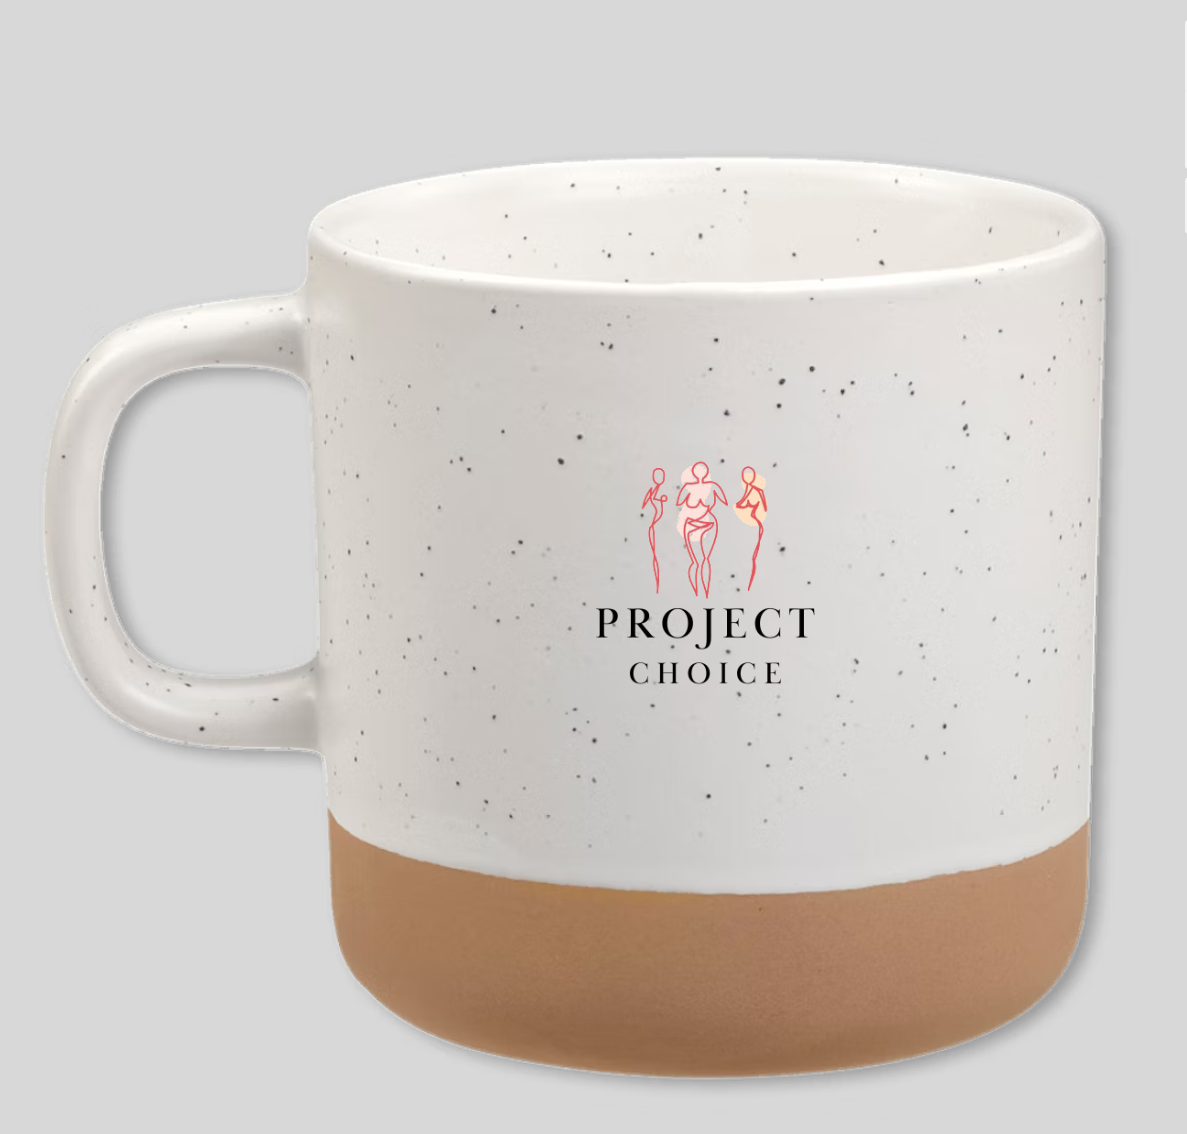
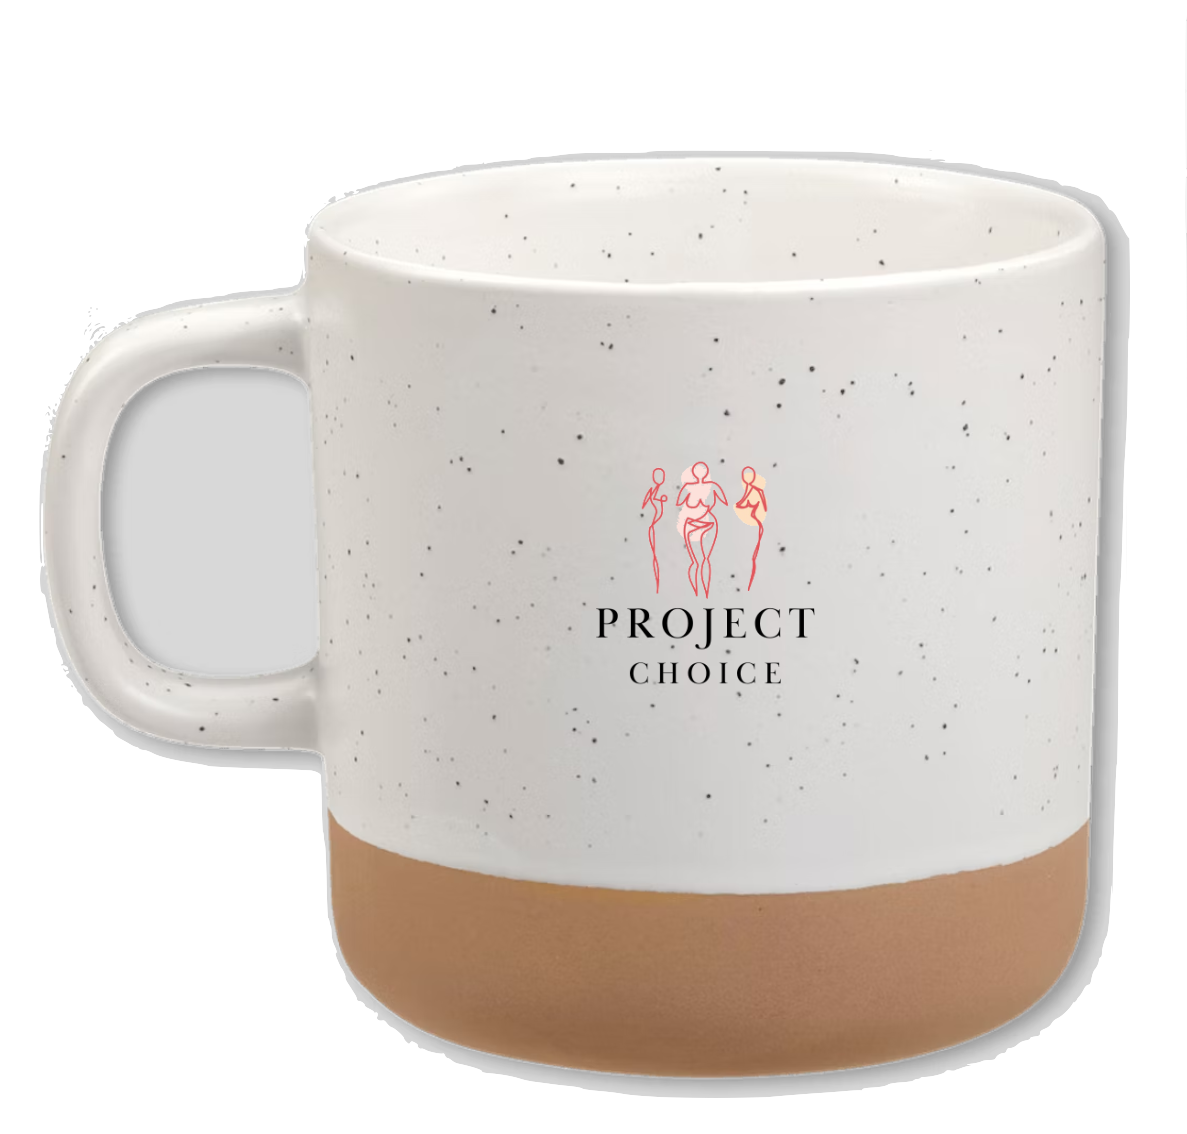
shop developments added and transparency to background photos

diff --git a/client/src/pages/Shop/shop.js b/client/src/pages/Shop/shop.js
@@ -1,9 +1,11 @@
-import React from "react";
+import ProductCard from "../../components/ProductCard/ProductCard";
 import "./shop.css";
 
 function Shop() {
+  const productArray = ['prochoice hoodie', 'Beanie', 'my choice mug']
+
   return (
-    <div name='technical-skills' className='w-full h-screen bg-[#2b2b2b] text-[#f8f9fa]'>
+    <div name='technical-skills' className='w-full h-screen text-[#f8f9fa]'>
       <div className='max-w-[1000px] mx-auto p-4 flex flex-col justify-center w-full h-full'>
         <div className='max-w-[1000px] w-full'>
           <div className='text-center'>
@@ -12,42 +14,10 @@ function Shop() {
         </div>
 
         <div className='w-full grid grid-cols-2 sm:grid-cols-3 gap-x-1 gap-y-8 text-center py-8'>
-          <div className='w-60 pt-6 shadow-md shadow-[#f8f9fa] hover:shadow-lg hover:shadow-[#9381ff] hover:bg-[#f8f9fa] hover:text-[#2b2b2b] hover:scale-110 duration-300'>
-            <img className='w-20 mx-auto' alt='Pro Choice Hoodie logo' />
-            <p className='my-4'>Pro Choice Hoodie</p>
-          </div>
-          <div className='w-60 pt-6 shadow-md shadow-[#f8f9fa] hover:shadow-lg hover:shadow-[#9381ff] hover:bg-[#f8f9fa] hover:text-[#2b2b2b] hover:scale-110 duration-300'>
-            <img className='w-20 mx-auto' alt='Beanie logo' />
-            <p className='my-4'>Beanie</p>
-          </div>
-          <div className='w-60 pt-6 shadow-md shadow-[#f8f9fa] hover:shadow-lg hover:shadow-[#9381ff] hover:bg-[#f8f9fa] hover:text-[#2b2b2b] hover:scale-110 duration-300'>
-            <img className='w-20 mx-auto' alt='My Choice Mug logo' />
-            <p className='my-4'>My Choice Mug</p>
-          </div>
-          <div className='w-60 pt-6 shadow-md shadow-[#f8f9fa] hover:shadow-lg hover:shadow-[#9381ff] hover:bg-[#f8f9fa] hover:text-[#2b2b2b] hover:scale-110 duration-300'>
-            <img className='w-20 mx-auto'  alt='My Body T White logo' />
-            <p className='my-4'>My Body T White</p>
-          </div>
-          <div className='w-60 pt-6 shadow-md shadow-[#f8f9fa] hover:shadow-lg hover:shadow-[#9381ff] hover:bg-[#f8f9fa] hover:text-[#2b2b2b] hover:scale-110 duration-300'>
-            <img className='w-20 mx-auto'  alt='My Body Hoodie logo' />
-            <p className='my-4'>My Body Hoodie</p>
-          </div>
-          <div className='w-60 pt-6 shadow-md shadow-[#f8f9fa] hover:shadow-lg hover:shadow-[#9381ff] hover:bg-[#f8f9fa] hover:text-[#2b2b2b] hover:scale-110 duration-300'>
-            <img className='w-20 mx-auto hover:invert'  alt='Pro Choice Mug logo' />
-            <p className='my-4'>Pro Choice Mug</p>
-          </div>
-          <div className='w-60 pt-6 shadow-md shadow-[#f8f9fa] hover:shadow-lg hover:shadow-[#9381ff] hover:bg-[#f8f9fa] hover:text-[#2b2b2b] hover:scale-110 duration-300'>
-            <img className='w-20 mx-auto'  alt='Pro Choice Water Bottle logo' />
-            <p className='my-4'>Pro Choice Water Bottle</p>
-          </div>
-          <div className='w-60 pt-6 shadow-md shadow-[#f8f9fa] hover:shadow-lg hover:shadow-[#9381ff] hover:bg-[#f8f9fa] hover:text-[#2b2b2b] hover:scale-110 duration-300'>
-            <img className='w-20 mx-auto'  alt='My Body T Pink logo' />
-            <p className='my-4'>My Body T Pink</p>
-          </div>
-          <div className='w-60 pt-6 shadow-md shadow-[#f8f9fa] hover:shadow-lg hover:shadow-[#9381ff] hover:bg-[#f8f9fa] hover:text-[#2b2b2b] hover:scale-110 duration-300'>
-            <img className='w-20 mx-auto hover:invert'  alt='Pro Choice Keychain logo' />
-            <p className='my-4'>Pro Choice Keychain</p>
-          </div>
+          {productArray.map((product) => (
+            <ProductCard product={product} />
+          ))}
+
         </div>
       </div>
     </div>

diff --git a/client/src/components/ProductCard/ProductCard.js b/client/src/components/ProductCard/ProductCard.js
@@ -1,0 +1,12 @@
+import './ProductCard.css'
+import mug from '../../assets/products/coffee-mug.png'
+
+
+export default function ProductCard({product}) {
+    return (
+        <div className='w-60 product-image pt-6 shadow-md shadow-[#f8f9fa] hover:shadow-lg hover:shadow-[#9381ff] hover:bg-[#f8f9fa] hover:text-[#2b2b2b] hover:scale-110 duration-300'>
+            <img className='w-20 mx-auto ' alt='Pro Choice Hoodie logo'  src={mug}/>
+            <p className='my-4 product-title'>{product}</p>
+        </div>
+    )
+}

diff --git a/client/src/App.css b/client/src/App.css
@@ -1,7 +1,9 @@
 .App {
   text-align: center;
 }
-
+body{
+  background-color: #fffefe; 
+}
 .App-logo {
   height: 40vmin;
   pointer-events: none;

diff --git a/client/src/pages/Homepage/homepage.css b/client/src/pages/Homepage/homepage.css
@@ -1,7 +1,7 @@
 *{
-    background-color: #fffefe;
     font-family:Verdana, Geneva, Tahoma, sans-serif;
 }
+
 
 .border-8 {
     border-width: 5px;

diff --git a/client/src/components/ProductCard/ProductCard.css b/client/src/components/ProductCard/ProductCard.css
@@ -1,0 +1,8 @@
+.product-title{
+    border-radius: 12px;
+    background-color: #fcded3;
+}
+
+.product-image{
+    border-radius: 12px;
+}
